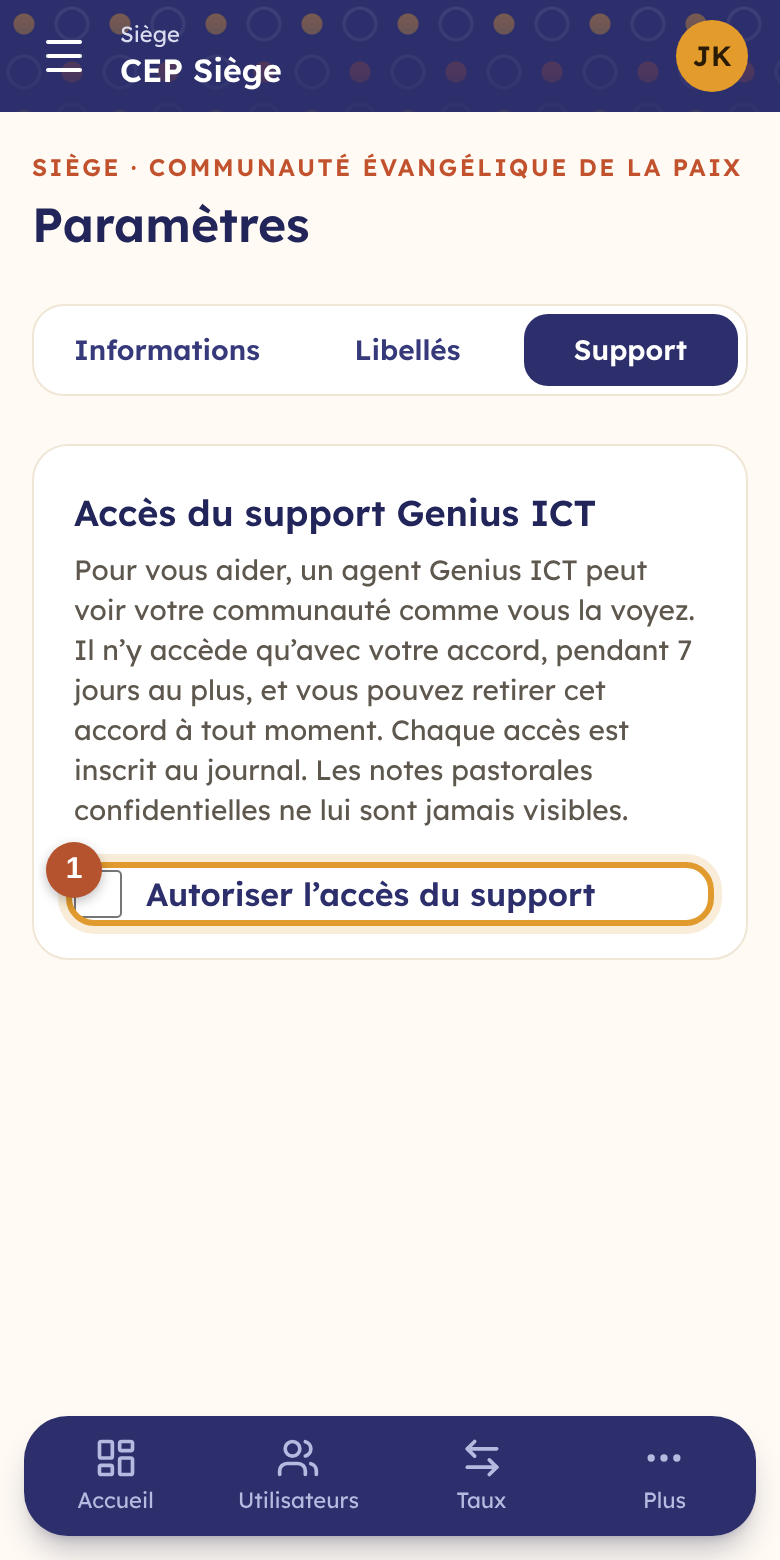
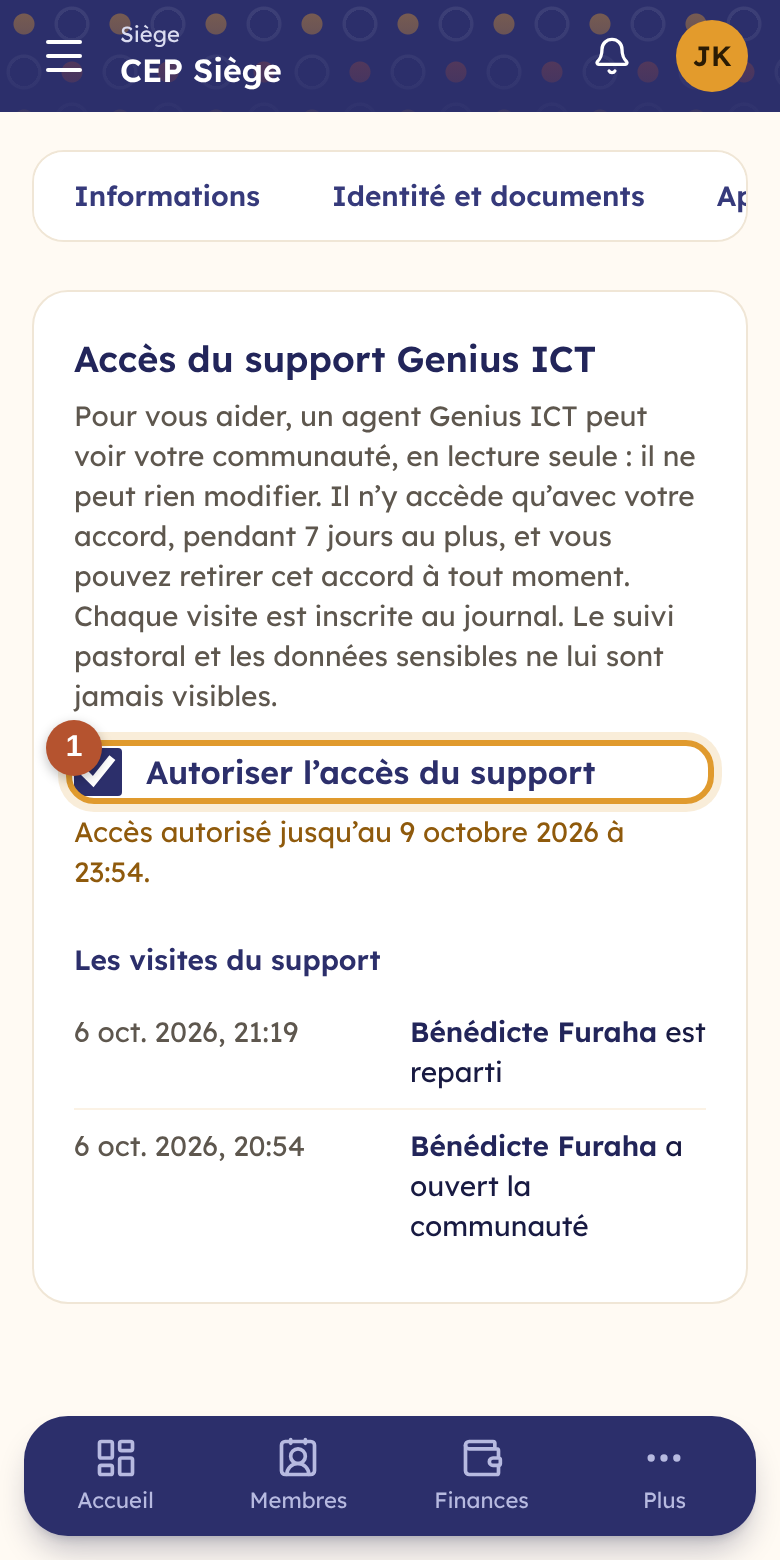
Manuel et feuille de route : abonnement déclaré, accès du support, tickets
Chapitre 35 (demander de l'aide au support), chapitres Abonnement et
Paramètres mis à jour, guide de l'équipe Genius ICT complété ; captures
22, 113 à 115 ; démo des visites du support ; étape Espace Genius ICT
terminée.

Claude-Session: https://claude.ai/code/session_01RmE888MJymYsdYztvNtvNP

diff --git a/docs/feuille-de-route.html b/docs/feuille-de-route.html
@@ -159,7 +159,7 @@ footer { margin-top: 56px; padding-top: 18px; border-top: 1px solid var(--line);
       <circle cx="80" cy="56" r="9" style="fill: var(--terra)"/>
     </svg>
     <span class="brand">waumini</span>
-    <span class="by">Genius ICT · Goma, Nord-Kivu<br>Mise à jour : octobre 2026, sites vitrines livrés</span>
+    <span class="by">Genius ICT · Goma, Nord-Kivu<br>Mise à jour : octobre 2026, espace Genius ICT complet</span>
   </header>
 
   <div class="hero">
@@ -286,10 +286,10 @@ const BLOCKS = [
       goal: "Chaque paroisse en ligne, sans rien saisir deux fois.",
       items: ["Un site par communauté, à son adresse (waumini.com/site/…), préparé en aperçu puis publié d’un geste", "Trois mises en page : Chaleureux (wax), Lumière (photo en grand), Solennel ; couleurs et logo de la communauté", "Pages choisies : programme, événements, annonces, prédications, qui sommes-nous, nos paroisses, dons, nous trouver", "Programme et événements tirés du calendrier, annonces choisies : une case « Sur le site vitrine » décide de ce qui est public", "Prédications : liens YouTube ou Facebook chargés seulement au toucher, audios légers jusqu’à 15 Mo, avec guide", "Dons par mobile money : numéros affichés, don déclaré avec l’ID de la transaction, vérifié par la trésorerie ; aussi depuis l’espace membre", "Bouton WhatsApp, itinéraire Google Maps, Facebook et YouTube ; 1 nouveau chapitre du manuel"],
       demo: "Livré : la Paroisse de Himbi en ligne avec son programme, la convention des jeunes et trois prédications ; Katindo au pied du Nyiragongo ; le siège qui présente ses paroisses ; un don M-Pesa déclaré depuis un téléphone ; 221 tests automatiques." },
-    { status: "doing", title: "Espace Genius ICT",
+    { status: "done", title: "Espace Genius ICT",
       goal: "Piloter la plateforme et accompagner les communautés.",
-      items: ["Livré : vue d’ensemble, communautés, essais prolongés, suspension", "Livré : offres et tarifs datés ; nouveau prix pour les nouvelles souscriptions, et au renouvellement pour les abonnés", "Livré : paiements enregistrés (mobile money, référence), prix figé pour la période, délai de grâce puis lecture seule chaque matin", "Livré : coordonnées et numéro WhatsApp, conditions et confidentialité versionnées, équipe et rôles internes", "À venir : paiement déclaré par la communauté et validé, accès support autorisé et révocable, tickets de support"],
-      demo: "Genius ICT change un tarif : les nouvelles églises le paient tout de suite, les abonnées à leur renouvellement." },
+      items: ["Vue d’ensemble avec un bloc « À traiter », communautés, essais prolongés, suspension", "Offres et tarifs datés ; nouveau prix pour les nouvelles souscriptions, et au renouvellement pour les abonnés", "Paiements enregistrés (mobile money, référence), prix figé pour la période, délai de grâce puis lecture seule chaque matin", "Paiement de l’abonnement déclaré par la communauté (offre, période, ID de la transaction), validé ou rejeté par Genius ICT", "Accès du support autorisé par la communauté pour 1, 3 ou 7 jours, révocable : lecture seule, bandeau, chaque visite au journal, jamais le suivi pastoral", "Tickets de support : la communauté écrit depuis Waumini, Genius ICT répond, chacun est prévenu ; prise en charge et clôture", "Coordonnées, numéros de paiement, textes juridiques versionnés, équipe et rôles internes ; nouveautés pour l’équipe ; 1 nouveau chapitre du manuel"],
+      demo: "Livré : la paroisse de Butembo déclare son paiement M-Pesa, Genius ICT le valide en un geste ; Bénédicte, au support, répond à Himbi sur le reçu en 58 mm et ouvre le siège en lecture seule avec son accord ; 227 tests automatiques." },
     { status: "todo", title: "Démo publique",
       goal: "Laisser chacun essayer Waumini, sans engagement ni inscription.",
       items: ["Un bouton « Essayer la démo » sur le site public", "Chaque visiteur reçoit sa propre copie de la communauté de démonstration, déjà remplie", "Toutes les fonctions utilisables, isolées des vraies communautés", "Données effacées automatiquement après 3 jours", "Identifiants affichés pour revenir depuis un autre appareil", "Déjà prêt : la communauté de démonstration réutilisable, le marquage et l’effacement des données de démo"],
@@ -404,7 +404,9 @@ const DECISIONS = [
   ]],
   ["Plateforme et support", [
     "Délai de grâce d’un mois avant le passage en lecture seule ; les données restent exportables.",
-    "Accès support « en tant que » la communauté, avec son accord et révocable.",
+    "Accès du support avec l’accord de la communauté, pour 1, 3 ou 7 jours, révocable, en lecture seule et sans le suivi pastoral ; chaque visite au journal.",
+    "La communauté déclare elle-même le paiement de son abonnement ; Genius ICT le valide après vérification de l’ID de la transaction.",
+    "Les heures sont celles de Goma (Afrique centrale) ; le fuseau se règle au déploiement.",
     "Plusieurs rôles internes chez Genius ICT, tickets de support et centre d’aide.",
     "Reprise des données par la communauté avec l’appui de Genius ICT, sur les modèles Excel de Waumini.",
     "Sites vitrines : thèmes existants, pages choisies par la communauté, un site par paroisse.",

diff --git a/database/seeders/DemoSeeder.php b/database/seeders/DemoSeeder.php
@@ -6,6 +6,7 @@ use App\Models\DemoRequest;
 use App\Models\Organization;
 use App\Models\Plan;
 use App\Models\User;
+use App\Services\AuditLogger;
 use App\Services\DemoCommunityBuilder;
 use App\Services\OrganizationProvisioner;
 use App\Services\Pricing;
@@ -14,6 +15,7 @@ use App\Services\Subscriptions;
 use App\Services\SupportTickets;
 use App\Support\Platform;
 use Illuminate\Database\Seeder;
+use Illuminate\Support\Carbon;
 use Illuminate\Support\Facades\Auth;
 
 /**
@@ -69,12 +71,20 @@ class DemoSeeder extends Seeder
         Platform::set('contact.payment', 'M-Pesa 0812 000 900 · Airtel Money 0970 000 900 (Genius ICT SARL)');
         Auth::login(User::where('phone', '+243990000032')->firstOrFail());
         app(SubscriptionDeclarations::class)->declare($butembo, Plan::find($plans['msingi']), 'small', 'monthly',
-            ['amount' => '15', 'method' => 'M-Pesa', 'reference' => 'MP2610051188', 'paid_on' => today()->subDay()->toDateString(), 'message' => 'Paiement du mois d’octobre']);
+            ['amount' => '10', 'method' => 'M-Pesa', 'reference' => 'MP2610051188', 'paid_on' => today()->subDay()->toDateString(), 'message' => 'Paiement du mois d’octobre']);
 
         // Une agente du support ; le siège de la CEP l'a autorisée pour trois jours, et deux demandes sont en cours.
         $agent = User::forceCreate(['name' => 'Bénédicte Furaha', 'phone' => '+243990000098', 'password' => self::PASSWORD,
             'is_platform_staff' => true, 'platform_role' => 'support']);
         $siege->update(['support_access_until' => now()->addDays(3)]);
+        Auth::login($agent);
+        $audit = app(AuditLogger::class);
+        $now = now();
+        Carbon::setTestNow($now->copy()->subHours(3));
+        $audit->record('support_opened', $siege, description: __('a ouvert la communauté avec l’accès du support Genius ICT, en lecture seule'));
+        Carbon::setTestNow($now->copy()->subHours(2)->subMinutes(35));
+        $audit->record('support_closed', $siege, description: __('a refermé l’accès du support Genius ICT'));
+        Carbon::setTestNow();
         $tickets = app(SupportTickets::class);
         $himbi = Organization::where('name', 'Paroisse de Himbi')->firstOrFail();
         Auth::login($esther = User::where('phone', '+243990000008')->firstOrFail());

diff --git a/docs/espace-genius-ict.md b/docs/espace-genius-ict.md
@@ -10,14 +10,18 @@ Une personne de l'équipe qui n'a pas de communauté arrive directement dans cet
 |---|---|
 | **Direction** | Tout, y compris gérer l'équipe. |
 | **Commercial et facturation** | Voir les communautés, enregistrer les paiements, prolonger un essai, fixer les tarifs. |
-| **Support** | Voir les communautés et les demandes de démonstration. |
+| **Support** | Voir les communautés et les demandes de démonstration, répondre aux tickets, ouvrir une communauté qui l'a autorisé. |
 | **Contenus et juridique** | Modifier les textes juridiques, les coordonnées et les réglages. |
 
 Le premier compte Direction se crée sur le serveur : `php artisan waumini:equipe 0812345678 "Prénom Nom"`. Les suivants s'ajoutent dans **Équipe Genius ICT**.
 
 ## Vue d'ensemble
 
-Les chiffres du moment : communautés inscrites et abonnées, essais en cours, communautés à régulariser (délai de grâce ou lecture seule), montant encaissé dans le mois. En dessous : les renouvellements des 30 prochains jours, les essais qui finissent dans la semaine, les dernières inscriptions et les demandes de démonstration (avec un lien WhatsApp).
+Les chiffres du moment : communautés inscrites et abonnées, essais en cours, communautés à régulariser (délai de grâce ou lecture seule), montant encaissé dans le mois.
+
+Le bloc **À traiter** liste les **paiements déclarés** par les communautés et les **tickets** en attente d'une réponse. En dessous : les renouvellements des 30 prochains jours, les essais qui finissent dans la semaine, les dernières inscriptions et les demandes de démonstration (avec un lien WhatsApp).
+
+La **cloche** en haut à droite compte les nouveautés de l'équipe : un paiement déclaré (pour le commercial), une nouvelle demande ou une réponse d'une communauté (pour le support). Elles arrivent aussi sur le téléphone, comme pour les communautés.
 
 ## Offres et tarifs
 
@@ -33,11 +37,34 @@ La liste montre les églises indépendantes et les sièges, avec leur état (ess
 
 Dans la fiche d'une communauté :
 
+- **Paiements déclarés à vérifier** (en haut, en orange) : la communauté a payé par mobile money et déclaré son paiement depuis son écran Abonnement, avec l'offre, la taille, la durée et l'**ID de la transaction**. Waumini rappelle le montant **attendu** (en rouge si la somme envoyée est plus petite). Vérifiez sur le téléphone de Genius ICT que l'argent est arrivé avec cet ID, puis :
+  - **Valider** : la période d'abonnement est enregistrée, exactement comme un paiement saisi à la main, et la communauté est prévenue ;
+  - **Rejeter**, avec un motif envoyé à la communauté (« Aucun paiement reçu avec cet ID »).
+  Une même référence ne peut pas être déclarée deux fois.
 - **Enregistrer un paiement** : offre, taille, durée (mensuelle ou annuelle), moyen de paiement et **référence de la transaction**. Sans date de début, la période suit celle en cours (renouvellement) ou commence aujourd'hui. Waumini calcule le montant avec le tarif en vigueur au début de la période ; ce prix reste figé. Pour une offre sur devis, saisissez le prix mensuel convenu.
 - **Prolonger l'essai** de quelques jours.
 - **Suspendre** une communauté (elle passe en lecture seule) ou la réactiver.
 
 Chaque matin, Waumini met à jour l'état de toutes les communautés : fin d'essai, délai de grâce, lecture seule.
+
+## Tickets de support
+
+**Tickets de support** (rôles Support et Direction). Une communauté écrit depuis **Administration › Support Genius ICT** : un sujet, une catégorie (question, problème, données, abonnement, idée) et son message. Chaque demande reçoit un numéro (`T2026-0001`).
+
+- Les onglets : **À traiter** (la communauté attend une réponse), **En attente de la communauté** (vous avez répondu), **Réglés**, **Tous** ; la case **Pris en charge par moi**.
+- Dans un ticket : l'échange, la communauté, la personne qui a écrit (avec son numéro WhatsApp), et qui s'en occupe. **Je m'en occupe** le prend en charge ; répondre le fait aussi.
+- **Envoyer** prévient la personne dans ses nouveautés. Sa réponse revient vers celui qui s'occupe du ticket (ou vers tout le support si personne ne s'en occupe).
+- **Marquer comme réglé** clôt le ticket ; la communauté peut aussi le faire. Un nouveau message le rouvre.
+
+## Accès du support à une communauté
+
+Une communauté peut autoriser le support à **voir** son espace, pour 1, 3 ou 7 jours (Paramètres › Support), et retirer cet accord à tout moment.
+
+- Dans la fiche de la communauté, le bloc **Accès du support** indique jusqu'à quand l'accès est autorisé, et pour quel niveau. **Ouvrir** fait entrer l'agent dans la communauté.
+- L'agent voit la communauté **en lecture seule** : un bandeau sombre le rappelle en haut de chaque écran. Il voit le registre, les finances, les rapports, le budget et la paie ; **jamais** le suivi pastoral ni les données sensibles des membres. Il ne peut **rien modifier**.
+- **Quitter**, dans le bandeau, le ramène dans l'espace Genius ICT.
+- Chaque ouverture et chaque fermeture sont inscrites au **journal d'audit** de la communauté, avec le nom de l'agent ; la communauté les voit aussi dans Paramètres › Support.
+- Si la communauté retire son accord, ou s'il expire, l'agent est renvoyé à l'espace Genius ICT dès son prochain clic.
 
 ## Textes juridiques
 
@@ -48,4 +75,5 @@ Pour modifier un texte : **Modifier**, corrigez le texte (en Markdown), vérifie
 ## Coordonnées et réglages
 
 - Le **numéro WhatsApp** et l'**e-mail** de Genius ICT : ils apparaissent sur le site public, dans l'écran Abonnement des communautés et dans les modèles Excel.
+- **Où payer l'abonnement** : les numéros mobile money de Genius ICT (« M-Pesa 0812 … · Airtel Money 0970 … »), montrés aux communautés au moment de déclarer leur paiement.
 - La durée de l'**essai gratuit** (nouvelles inscriptions) et du **délai de grâce**.

diff --git a/docs/manuel/35-support.md b/docs/manuel/35-support.md
@@ -1,0 +1,43 @@
+# 35. Demander de l'aide au support Genius ICT
+
+Une question sur un écran, un reçu qui s'imprime mal, un fichier Excel à importer, une idée pour Waumini : écrivez à l'équipe **Genius ICT** depuis Waumini. Elle vous répond au même endroit, et vous êtes prévenu dans vos [nouveautés](25-nouveautes.md), même l'application fermée.
+
+Tout utilisateur de la communauté peut écrire. Chacun voit **ses** demandes ; l'administrateur voit toutes celles de la communauté.
+
+## Mes demandes
+
+**Administration › Support Genius ICT**.
+
+<table><tr>
+<td width="68%"><img src="captures/bureau/114-support.png" alt="Demandes de support sur ordinateur"></td>
+<td width="32%"><img src="captures/mobile/114-support.png" alt="Demandes de support sur téléphone"></td>
+</tr></table>
+
+① **Vos demandes**, avec leur numéro et leur état :
+
+| État | Ce qu'il veut dire |
+|---|---|
+| **En attente du support** | Genius ICT n'a pas encore répondu |
+| **Réponse reçue** | Genius ICT a répondu : à vous de lire, de répondre ou de marquer la demande comme réglée |
+| **Réglé** | La demande est close ; un nouveau message la rouvre |
+
+② **Nouvelle demande** : choisissez le sujet (une question, quelque chose qui ne marche pas, des données à reprendre, l'abonnement, une idée), un titre court et votre message. Dites **ce que vous faisiez, ce qui s'est passé et ce que vous attendiez** : la réponse n'en sera que plus rapide.
+
+À droite, avant d'écrire : le [manuel](README.md), qui répond déjà à beaucoup de questions, et le lien WhatsApp de Genius ICT pour une urgence.
+
+## Une demande et ses échanges
+
+<table><tr>
+<td width="68%"><img src="captures/bureau/115-ticket.png" alt="Échange avec le support sur ordinateur"></td>
+<td width="32%"><img src="captures/mobile/115-ticket.png" alt="Échange avec le support sur téléphone"></td>
+</tr></table>
+
+Vos messages sont à droite, ceux de Genius ICT à gauche, avec le nom de l'agent et l'heure.
+
+① **Répondre** : écrivez et touchez **Envoyer** ; l'agent est prévenu.
+
+② **C'est réglé** clôt la demande quand le problème est résolu.
+
+## Laisser le support regarder
+
+Pour certains problèmes, l'agent a besoin de **voir ce que vous voyez**. L'administrateur peut l'autoriser pour 1, 3 ou 7 jours dans [Paramètres › Support](08-parametres.md#accès-du-support-genius-ict) : l'agent regarde en lecture seule, ne modifie rien, ne voit jamais le suivi pastoral, et chaque visite est inscrite au journal.

diff --git a/docs/manuel/11-abonnement.md b/docs/manuel/11-abonnement.md
@@ -30,9 +30,25 @@ Les prix, en dollars, s'affichent dans l'application. Ils sont fixés par Genius
 - Si Genius ICT change ses tarifs, le nouveau prix s'applique tout de suite aux communautés qui ne sont pas encore abonnées, et pour les communautés abonnées **seulement à leur prochain renouvellement**.
 - Un changement est annoncé à l'avance : un message dans l'écran Abonnement indique le nouveau prix et la date à partir de laquelle vous le paierez.
 
-## Souscrire
+## Souscrire ou renouveler
 
-Contactez Genius ICT depuis le bloc **Souscrire** (WhatsApp ou e-mail) pour choisir votre offre. Le paiement se fait par mobile money : communiquez la **référence de la transaction**. Genius ICT enregistre le paiement, et la période apparaît dans **Vos paiements**. Un renouvellement commence le lendemain de la fin de la période en cours. Bientôt, vous pourrez déclarer votre paiement directement dans Waumini.
+Le bloc **Souscrire** (ou **Renouveler**) indique les **numéros mobile money** de Genius ICT.
+
+1. Envoyez le montant de l'offre choisie depuis votre téléphone.
+2. Touchez **Déclarer un paiement**.
+
+<table><tr>
+<td width="68%"><img src="captures/bureau/113-declarer-abonnement.png" alt="Déclarer un paiement sur ordinateur"></td>
+<td width="32%"><img src="captures/mobile/113-declarer-abonnement.png" alt="Déclarer un paiement sur téléphone"></td>
+</tr></table>
+
+① Choisissez l'**offre**, la **taille** de la communauté et, si vous payez pour l'année, cochez **Paiement annuel** (deux mois offerts). Waumini affiche le **montant à payer** et la période couverte : à la suite de la période en cours, ou à partir d'aujourd'hui.
+
+② Indiquez le **montant envoyé**, l'opérateur, la date et l'**ID de la transaction** reçu par SMS.
+
+Votre déclaration apparaît « en cours de vérification ». Genius ICT vérifie que l'argent est arrivé, puis **valide** : la période s'ajoute à **Vos paiements**, et vous êtes prévenu dans vos [nouveautés](25-nouveautes.md). Si le paiement n'est pas retrouvé, la déclaration est **rejetée** avec un motif ; vérifiez l'ID et déclarez de nouveau.
+
+Seul l'administrateur du siège (ou de l'église indépendante) déclare les paiements. Une offre **sur devis** se convient d'abord avec Genius ICT, par WhatsApp ou e-mail.
 
 ## Et si l'abonnement n'est pas payé ?
 

diff --git a/docs/manuel/08-parametres.md b/docs/manuel/08-parametres.md
@@ -70,16 +70,18 @@ Waumini parle comme votre communauté. Renommez un libellé, et il change **part
 
 ## Accès du support Genius ICT
 
-Pour vous aider, un agent du support Genius ICT peut voir votre communauté **comme vous la voyez**. Il n'y accède **qu'avec votre accord**.
+Pour vous aider, un agent du support Genius ICT peut **voir** votre communauté, en **lecture seule**. Il n'y accède **qu'avec votre accord**.
 
 <table><tr>
 <td width="68%"><img src="captures/bureau/22-acces-support.png" alt="Accès du support sur ordinateur"></td>
 <td width="32%"><img src="captures/mobile/22-acces-support.png" alt="Accès du support sur téléphone"></td>
 </tr></table>
 
-- Cochez **Autoriser l'accès du support** ① : l'accès est ouvert pour **7 jours** au plus, et la date de fin s'affiche.
-- Décochez la case pour **retirer l'accès immédiatement**.
-- Chaque accès est inscrit au [journal d'audit](09-journal.md).
-- Les **notes pastorales confidentielles** ne sont **jamais** visibles par le support.
+- Choisissez la durée (**1, 3 ou 7 jours**), puis cochez **Autoriser l'accès du support** ① : la date de fin s'affiche.
+- Décochez la case pour **retirer l'accès immédiatement** : l'agent est renvoyé hors de votre communauté à son prochain clic.
+- L'agent voit le registre, les finances, les rapports, le budget et la paie, avec un bandeau « lecture seule » : il ne peut **rien modifier**. Il ne voit **jamais** le suivi pastoral ni les données sensibles des membres.
+- **Les visites du support** : chaque entrée et chaque sortie d'un agent, avec son nom et l'heure. Elles sont aussi inscrites au [journal d'audit](09-journal.md).
+
+Pour poser une question au support, utilisez plutôt une [demande de support](35-support.md) : l'agent vous répond dans Waumini.
 
 Cette case demande la permission **Autoriser ou révoquer l'accès du support Genius ICT**.

diff --git a/docs/manuel/README.md b/docs/manuel/README.md
@@ -80,6 +80,7 @@ Il grandit avec l'application. Chaque étape de la [feuille de route](../feuille
 
 ### Aide
 
+- [Demander de l'aide au support Genius ICT](35-support.md)
 - [Questions fréquentes](faq.md)
 
 ## Qui fait quoi ?
@@ -99,7 +100,7 @@ Waumini fournit des **rôles modèles**. Votre administrateur peut les adapter o
 
 ## Besoin d'aide ?
 
-Contactez l'équipe Genius ICT (Goma) : **geniusictservices@gmail.com**. Si vous le souhaitez, vous pouvez autoriser un agent du support à voir votre communauté pendant quelques jours (voir [Accès du support](08-parametres.md#accès-du-support-genius-ict)).
+Écrivez à l'équipe Genius ICT (Goma) depuis **Administration › Support Genius ICT** (voir [Demander de l'aide](35-support.md)), ou à **geniusictservices@gmail.com**. Si vous le souhaitez, vous pouvez autoriser un agent du support à voir votre communauté, en lecture seule, pendant quelques jours (voir [Accès du support](08-parametres.md#accès-du-support-genius-ict)).
 
 ---
 
